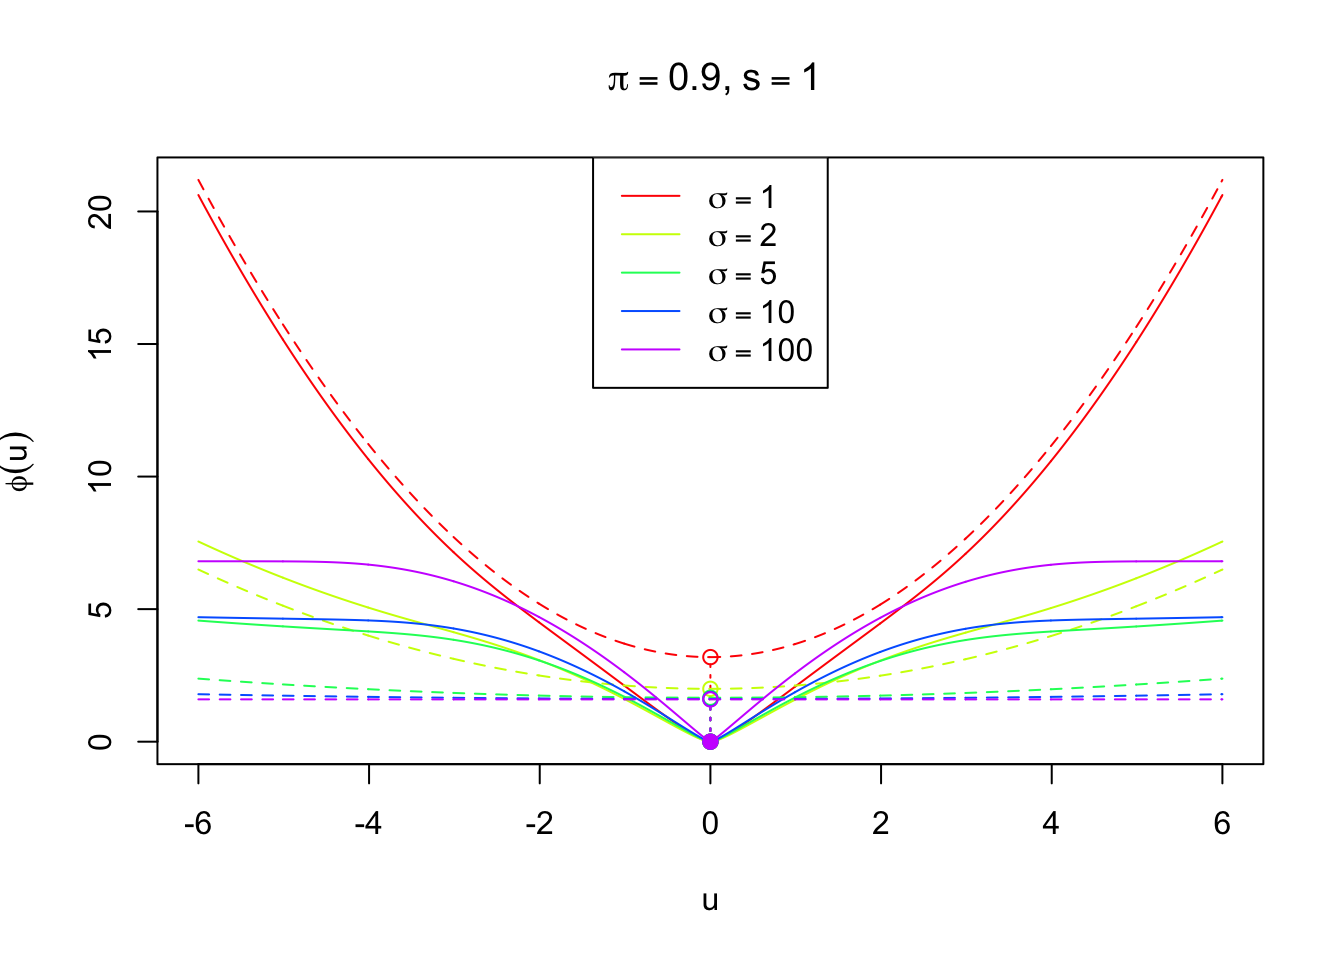
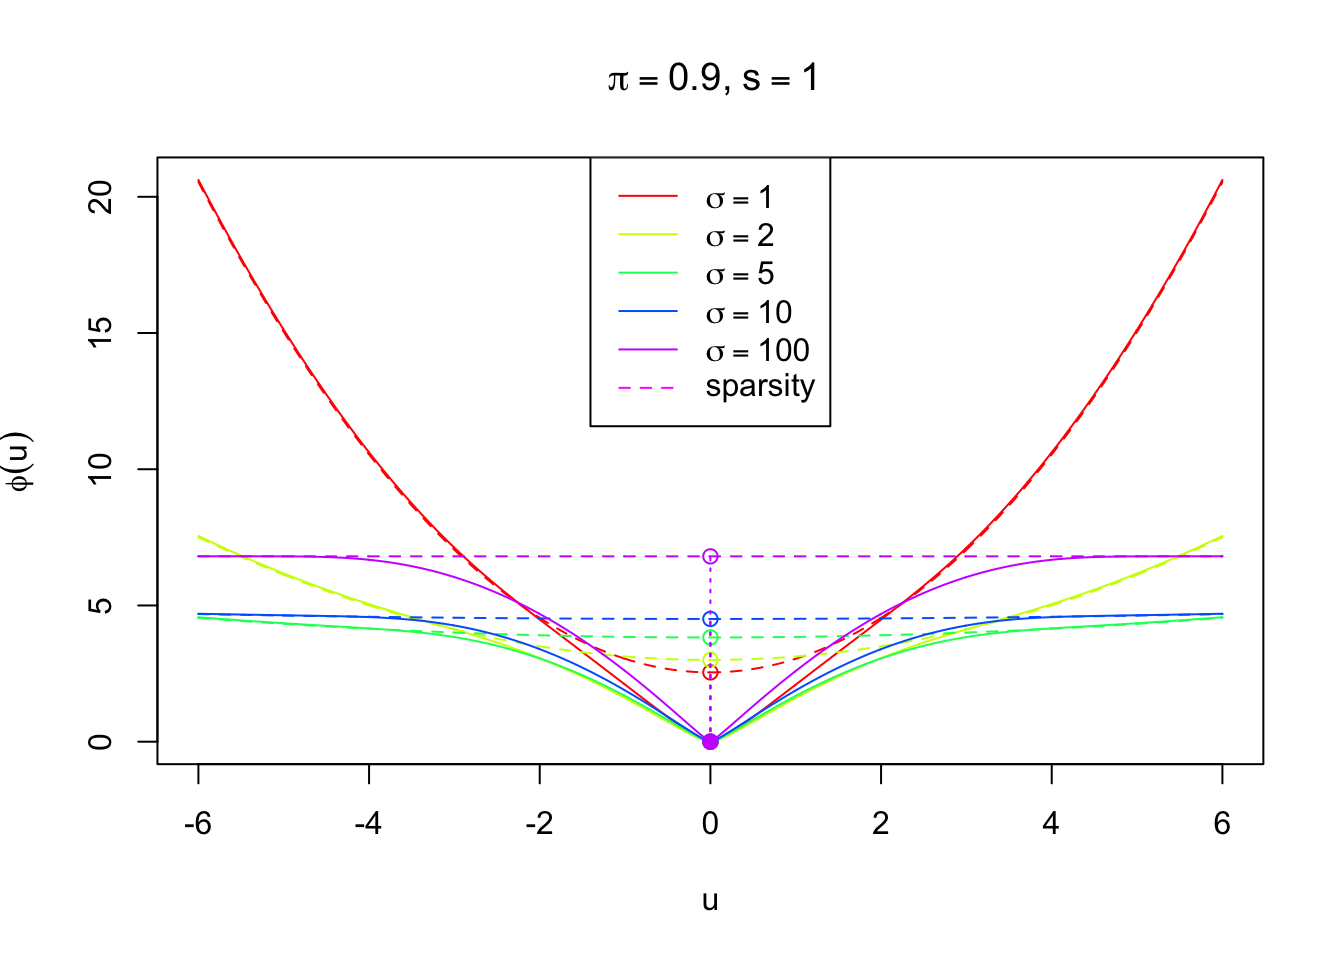
error

diff --git a/docs/bernoulli-gaussian.html b/docs/bernoulli-gaussian.html
@@ -310,7 +310,7 @@ div.tocify {
 
 
 <p><strong>Last updated:</strong> 2017-03-12</p>
-<p><strong>Code version:</strong> 8f8d2d4</p>
+<p><strong>Code version:</strong> 8c206a4</p>
 <div id="problem" class="section level2">
 <h2>Problem</h2>
 <p>In normal means problem, suppose</p>
@@ -602,12 +602,15 @@ legend(&quot;top&quot;, col = rainbow(length(nsigma))[1:(k - 1)], lty = 1,
 \]</span></p>
 <p>It’s easy to see that the penalty term corresponding to this rule should be a <span class="math inline">\(l_2\)</span>-<span class="math inline">\(l_0\)</span> regularization. In particular,</p>
 <p><span class="math display">\[
-\phi(u) = \frac{1}{2\sigma^2}u^2 + \frac{z^*(\sigma^2 + s^2)}{2\sigma^2s^2}\|u\|_0
-\]</span> where <span class="math inline">\(\|u\|_0 = I(u \neq 0)\)</span> is the indicator of <span class="math inline">\(u\)</span> being nonzero, <span class="math inline">\(z^*\)</span> defined as above. Written in another way</p>
+\phi(u) = \frac{1}{2\sigma^2}u^2 + \lambda\|u\|_0
+\]</span> where <span class="math inline">\(\|u\|_0 = I(u \neq 0)\)</span> is the indicator of <span class="math inline">\(u\)</span> being nonzero. A little algebra shows that</p>
+<p><span class="math display">\[
+\lambda = \frac{{z^*}^2\sigma^2}{2s^2(\sigma^2 + s^2)} = \log\left(\frac{\pi}{1-\pi}\sqrt{\frac{\sigma^2 + s^2}{s^2}}\right)
+\]</span> Written in another way</p>
 <p><span class="math display">\[
 \begin{array}{rl}
 &amp; \arg\min_u\{\frac1{2s^2}(z - u)^2 + \phi(u)\}\\
-= &amp; \arg\min_u\{\frac1{2s^2}(z - u)^2 + \frac{1}{2\sigma^2}u^2 + \frac{z^*(\sigma^2 + s^2)}{2\sigma^2s^2}\|u\|_0\}\\
+= &amp; \arg\min_u\{\frac1{2s^2}(z - u)^2 + \frac{1}{2\sigma^2}u^2 + \log\left(\frac{\pi}{1-\pi}\sqrt{\frac{\sigma^2 + s^2}{s^2}}\right)\|u\|_0\}\\
 = &amp;
 \begin{cases}
 0 &amp; |z| \leq z_{s, \pi, \sigma}^* \\
@@ -615,10 +618,12 @@ legend(&quot;top&quot;, col = rainbow(length(nsigma))[1:(k - 1)], lty = 1,
 \end{cases}
 \end{array}
 \]</span></p>
-<pre class="r"><code>zstar = function (s, pi, sigma) {zstar = sqrt(2 * (sigma^2 + s^2) * (s^2 / sigma^2) * log(pi / (1 - pi) * sqrt((sigma^2 + s^2) / s^2))); return(zstar)}
+<pre class="r"><code># zstar = function (s, pi, sigma) {zstar = sqrt(2 * (sigma^2 + s^2) * (s^2 / sigma^2) * log(pi / (1 - pi) * sqrt((sigma^2 + s^2) / s^2))); return(zstar)}
 s = 1
 pi = 0.9
-phi_s = function (u, s, pi, sigma) {phi_s = 1 / (2 * sigma^2) * u^2 + zstar(s, pi, sigma = 1) * (s^2 + sigma^2) / (2 * sigma^2 * s^2); return(phi_s)}
+# phi_s = function (u, s, pi, sigma) {phi_s = 1 / (2 * sigma^2) * u^2 + zstar(s, pi, sigma = 1) * (s^2 + sigma^2) / (2 * sigma^2 * s^2); return(phi_s)}
+
+phi_s = function (u, s, pi, sigma) {phi_s = 1 / (2 * sigma^2) * u^2 + log(pi / (1 - pi) * sqrt((sigma^2 + s^2) / s^2)); return(phi_s)}
 ymax = max(phi_s(u, s, pi, sigma = 1))
 plot(u, phi_s(u, s, pi, sigma = 1), type = &quot;n&quot;, ylim = c(0, ymax),
      xlab = expression(u), ylab = expression(phi(u)),
@@ -662,14 +667,16 @@ for (sigma in nsigma) {
   segments(0, 0, 0, phi_s(0, s, pi, sigma = sigma), lty = 3, col = rainbow(length(nsigma))[k])
   k = k + 1
 }
-legend(&quot;top&quot;, col = rainbow(length(nsigma))[1:(k - 1)], lty = 1,
-       legend = expression(
+legend(&quot;top&quot;,
+       col = c(rainbow(length(nsigma))[1:(k - 1)], 6),
+       lty = c(rep(1, length(nsigma)), 2),
+       legend = c(expression(
          sigma == 1,
          sigma == 2,
          sigma == 5,
          sigma == 10,
          sigma == 100
-       )
+       ), &quot;sparsity&quot;)
        )</code></pre>
 <p><img src="figure/bernoulli-gaussian.Rmd/unnamed-chunk-7-1.png" width="672" style="display: block; margin: auto;" /></p>
 </div>
